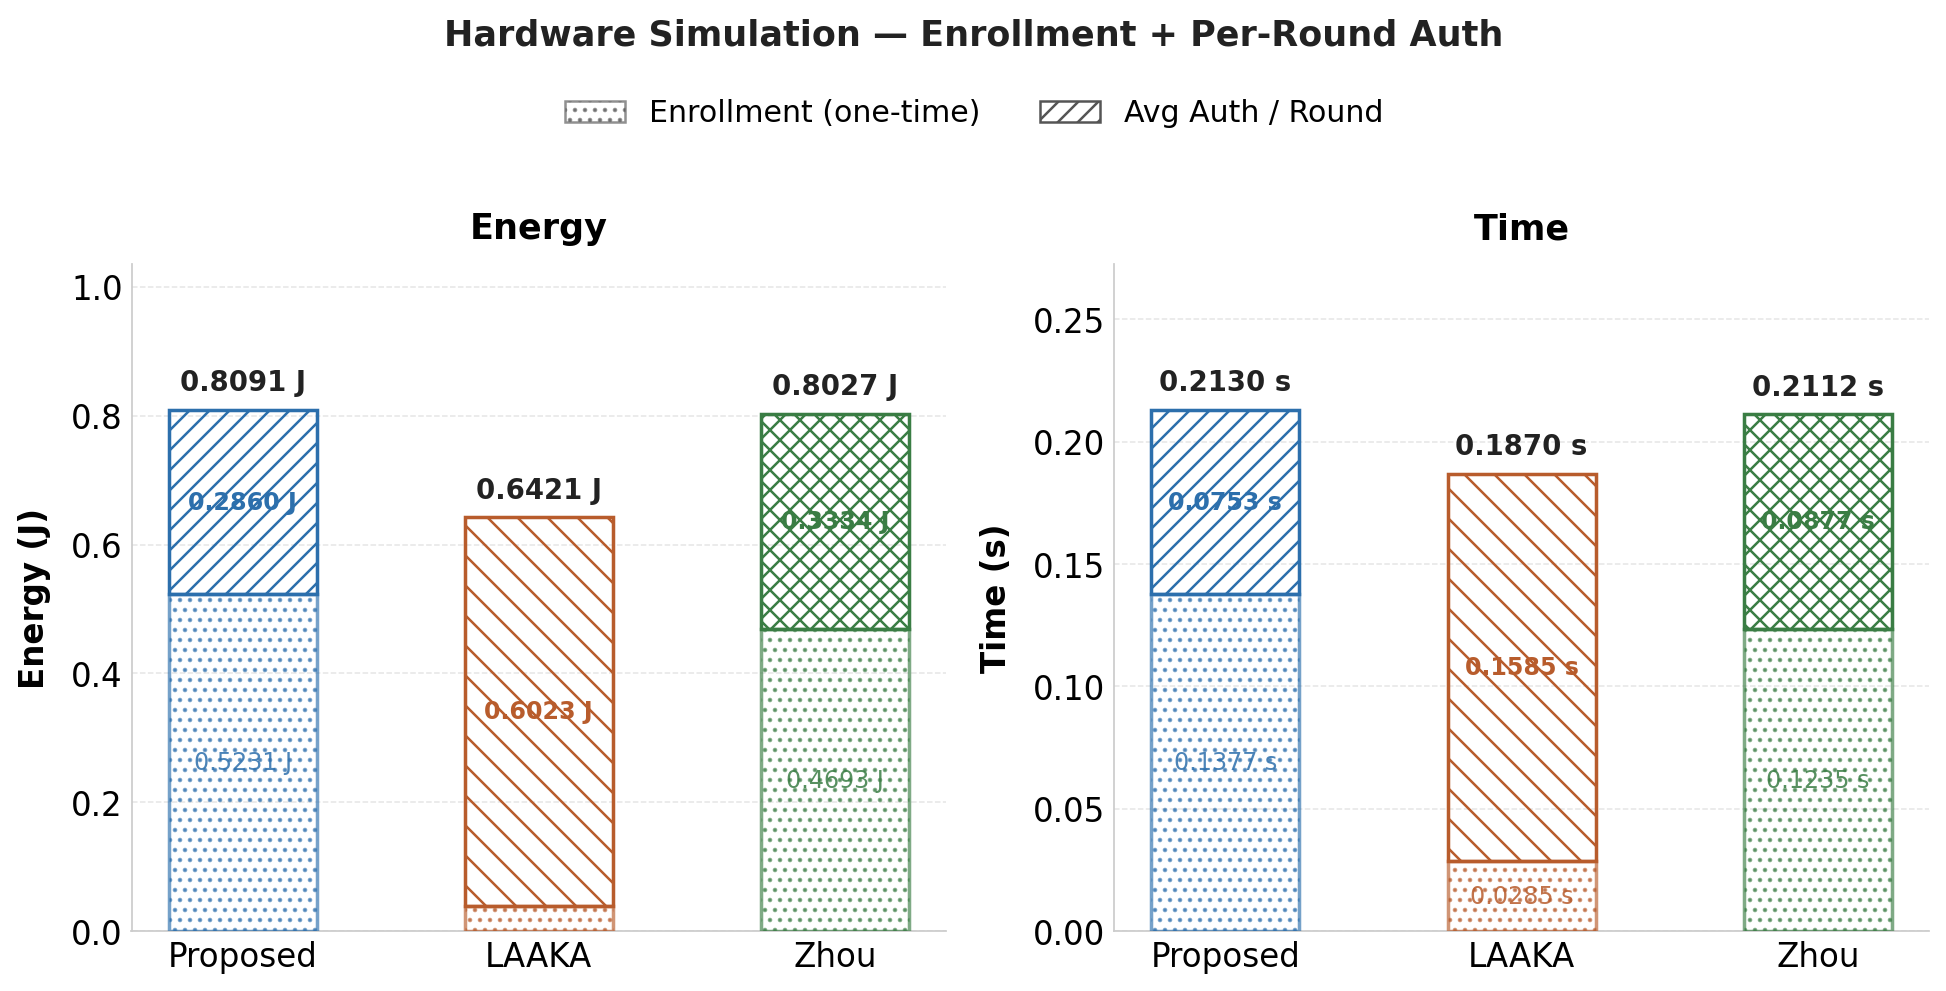
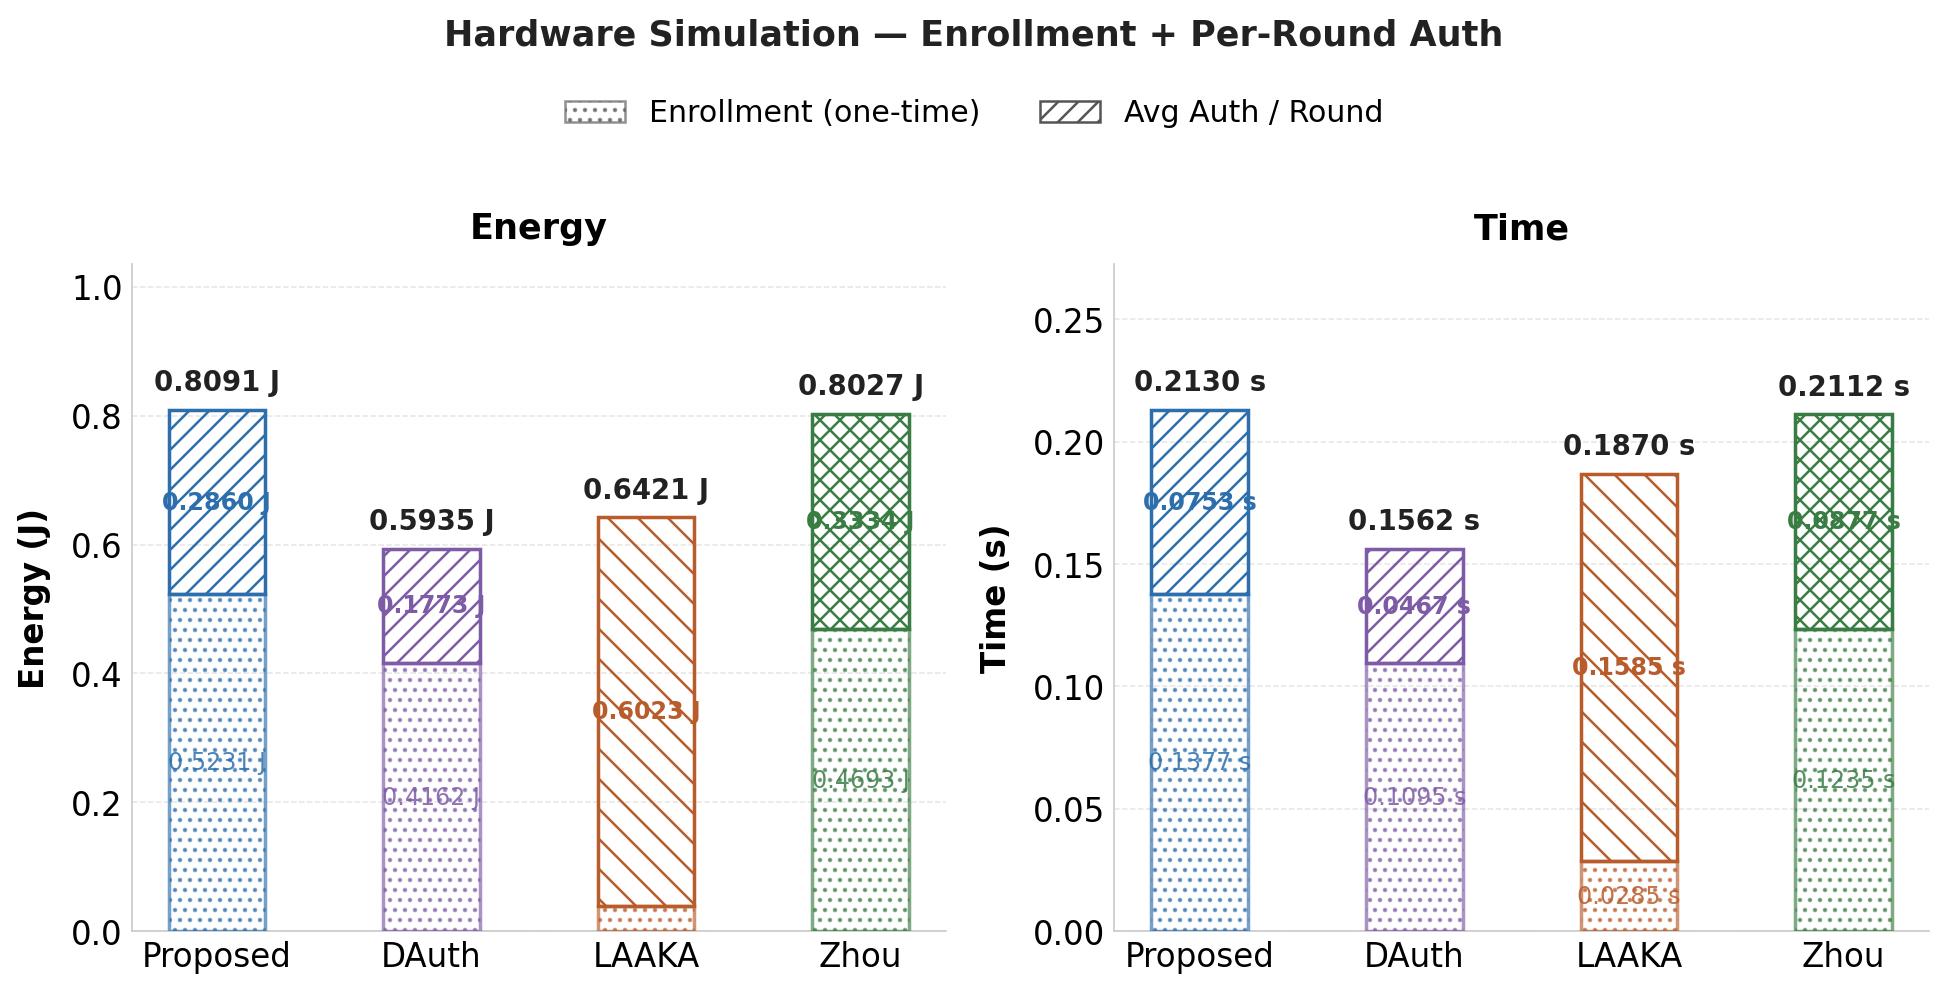
Add DAuth hardware results and update hw comparison charts
Run DAuth simulation on RPi 4B (Apex=device, Pi=AS, Laptop=GW) with
1 warm-up round to eliminate TCP cold-start bias. Auth+KeyEx 3-round
avg: 0.177 J/round, 0.047 s/round (avg of 2 runs). Enrollment: 0.416 J.

- Hardware/DAuth/device.py: add NUM_WARMUP=1 warm-up round (discarded)
- Hardware/plot_hw_comparison.py: add DAuth as 4th bar (#7E5BA6, ...)
- Hardware/plot_hw_with_enrollment.py: add DAuth to stacked bar chart
- Hardware/Charts/hw_total_comparison.png: regenerated (4 schemes)
- Hardware/Charts/hw_enrollment_comparison.png: regenerated (4 schemes)
- CLAUDE.md: update hardware chart status note

Changed region(s): [[0.0617, 0.3633, 0.4625, 0.999], [0.5858, 0.3633, 0.8633, 0.999], [0.8941, 0.3633, 0.9866, 0.999]]

diff --git a/Hardware/plot_hw_with_enrollment.py b/Hardware/plot_hw_with_enrollment.py
@@ -18,23 +18,26 @@ OUT_FILE = os.path.join(OUT_DIR, "hw_enrollment_comparison.png")
 os.makedirs(OUT_DIR, exist_ok=True)
 
 # ── Measured values (RPi 4B, 3800 mW, wall_time × 3.8 W) ──────────────────────
-SCHEMES = ["Proposed", "LAAKA", "Zhou"]
+SCHEMES = ["Proposed", "DAuth", "LAAKA", "Zhou"]
 
-ENROLL_ENERGY_J = {"Proposed": 0.5231, "LAAKA": 0.0398, "Zhou": 0.4693}
-ENROLL_TIME_S   = {"Proposed": 0.1377, "LAAKA": 0.0285, "Zhou": 0.1235}
+# DAuth enrollment: avg of 2 RPi 4B runs (0.4576 J + 0.3748 J) / 2
+ENROLL_ENERGY_J = {"Proposed": 0.5231, "DAuth": 0.4162, "LAAKA": 0.0398, "Zhou": 0.4693}
+ENROLL_TIME_S   = {"Proposed": 0.1377, "DAuth": 0.1095, "LAAKA": 0.0285, "Zhou": 0.1235}
 
 # Per-round avg = (3-round sum) / 3, enrollment excluded
-AUTH_ENERGY_J   = {"Proposed": 0.2860, "LAAKA": 0.6023, "Zhou": 0.3334}
-AUTH_TIME_S     = {"Proposed": 0.0753, "LAAKA": 0.1585, "Zhou": 0.0877}
+# DAuth auth: avg of 2 RPi 4B runs (0.5211 J + 0.5426 J) / 2 / 3 rounds
+AUTH_ENERGY_J   = {"Proposed": 0.2860, "DAuth": 0.1773, "LAAKA": 0.6023, "Zhou": 0.3334}
+AUTH_TIME_S     = {"Proposed": 0.0753, "DAuth": 0.0467, "LAAKA": 0.1585, "Zhou": 0.0877}
 
 # ── Style ──────────────────────────────────────────────────────────────────────
 COLORS = {
     "Proposed": "#2C6FAC",
+    "DAuth":    "#7E5BA6",
     "LAAKA":    "#B85C2C",
     "Zhou":     "#3A7D44",
 }
 HATCH_ENROLL = "..."
-HATCH_AUTH   = {"Proposed": "///", "LAAKA": "\\\\", "Zhou": "xxx"}
+HATCH_AUTH   = {"Proposed": "///", "DAuth": "///", "LAAKA": "\\\\", "Zhou": "xxx"}
 
 _STYLE = {
     "font.size":         13,
@@ -51,7 +54,7 @@ _STYLE = {
     "grid.linewidth":    0.6,
 }
 
-BAR_W = 0.50
+BAR_W = 0.45
 X     = np.arange(len(SCHEMES))
 
 

diff --git a/Hardware/plot_hw_comparison.py b/Hardware/plot_hw_comparison.py
@@ -26,17 +26,22 @@ os.makedirs(OUT_DIR, exist_ok=True)
 # Proposed : Auth+KeyEx only (per round avg)
 # LAAKA    : Auth+Ack + Data (per round avg)
 # Zhou     : Auth M1->M4 + Data (per round avg)
-SCHEMES = ["Proposed", "LAAKA", "Zhou"]
+SCHEMES = ["Proposed", "DAuth", "LAAKA", "Zhou"]
 
 _NUM_ROUNDS = 3
 
+# Auth+KeyEx only (Enrollment and Data excluded), 3-round sums.
+# DAuth values: average of 2 hardware runs on RPi 4B (Apex=device, Pi=AS, Laptop=GW)
+#   with 1 warm-up round discarded to eliminate TCP cold-start.
 _ENERGY_SUM_J = {
     "Proposed": 0.8580,
+    "DAuth":    0.5319,
     "LAAKA":    1.8069,
     "Zhou":     1.0002,
 }
 _TIME_SUM_S = {
     "Proposed": 0.2258,
+    "DAuth":    0.1400,
     "LAAKA":    0.4755,
     "Zhou":     0.2632,
 }
@@ -47,11 +52,13 @@ TIME_S   = {k: round(v / _NUM_ROUNDS, 4) for k, v in _TIME_SUM_S.items()}
 # ── Style (matches existing COOJA simulation charts) ──────────────────────────
 COLORS = {
     "Proposed": "#2C6FAC",
+    "DAuth":    "#7E5BA6",
     "LAAKA":    "#B85C2C",
     "Zhou":     "#3A7D44",
 }
 HATCHES = {
     "Proposed": "///",
+    "DAuth":    "...",
     "LAAKA":    "\\\\",
     "Zhou":     "xxx",
 }
@@ -71,7 +78,7 @@ _STYLE = {
     "grid.linewidth":    0.6,
 }
 
-BAR_W = 0.50
+BAR_W = 0.45
 X     = np.arange(len(SCHEMES))
 
 

diff --git a/Hardware/DAuth/device.py b/Hardware/DAuth/device.py
@@ -16,6 +16,7 @@ STORAGE_FILE = "device_storage.json"
 
 RPI_POWER_MW = 3800   # mW — RPi 4B typical single-core active
 NUM_ROUNDS   = 3
+NUM_WARMUP   = 1    # warm-up rounds before measurement (discarded)
 
 APUF_MASTER_D = b"dev_apuf_master_32b_long_!!!"
 
@@ -230,6 +231,18 @@ if __name__ == '__main__':
     if not do_enrollment():
         raise SystemExit("Enrollment failed — aborting")
     time.sleep(0.3)
+
+    enroll_rec = results[0]   # save before warm-up pollutes list
+
+    print(f"\n[DEV] === Warm-up (1 round, discarded) ===")
+    for _ in range(NUM_WARMUP):
+        ok = do_round(0)
+        if not ok:
+            raise SystemExit("Warm-up failed — aborting")
+        time.sleep(0.3)
+
+    results.clear()
+    results.append(enroll_rec)   # restore enrollment
 
     for r in range(1, NUM_ROUNDS + 1):
         print(f"\n[DEV] === Round {r} ===")

diff --git a/CLAUDE.md b/CLAUDE.md
@@ -95,5 +95,5 @@ Simulation subfigure pairs use `\minipage[b]{0.48\columnwidth}` side-by-side lay
   - **LAAKA** — a **completely separate** scheme: Hala Ali & Irfan Ahmed, "LAAKA: Lightweight Anonymous Authentication and Key Agreement Scheme for Secure Fog-Driven IoT Systems," Computers & Security 140 (2024) 103770 (Elsevier, VCU). **This is NOT das2026comsnets.** Code in `LAAKA/` (as-node.c, device-node.c, gw-node.c) and `Hardware/LAAKA/`; paper PDF at `LAAKA/LAAKA.pdf`.
   - **Zhou** — see next bullet.
 - **Main COOJA evaluation charts now plot FOUR schemes — Proposed, DAuth, LAAKA, Zhou.** DAuth was added as a 4th series (purple `#7E5BA6`, dot hatch `...`) to `fig_sim_total`, `fig_sim_as_energy/cpu`, and `fig_sim_net_energy/cpu`; the desync chart relabels its "Base" bar to "DAuth". DAuth COOJA data comes from `Revised-Anonymity/Src-DAuth/` (3-phase, PID-stripped, fair delta enrollment) via `Scripts/Simulation-Runners/run_dauth_sweep.py`, with results under `Results/COOJA-Simulation/DAuth-Sweep/` (as-/network-variation) and `Results/COOJA-Simulation/10-Seed-Comparison/DAuth/` (total). Result: DAuth sits just below Proposed everywhere (Proposed pays ~8% for PID anonymity), both far below LAAKA/Zhou; enrollment is now fairly comparable (DAuth ~24.6 vs Proposed ~23.2 mJ).
-- The **hardware** evaluation chart (`fig_hw_comparison.png`) still plots **Proposed, LAAKA, Zhou** only (verified from `Hardware/plot_hw_comparison.py`); DAuth is not yet in the hardware comparison.
+- The **hardware** evaluation chart (`fig_hw_comparison.png`) now plots **Proposed, DAuth, LAAKA, Zhou** — DAuth added (purple `#7E5BA6`, dot hatch `...`) to `Hardware/plot_hw_comparison.py` and `Hardware/plot_hw_with_enrollment.py`. DAuth hardware data: 2 RPi 4B runs (Apex=device, Pi=AS, Laptop=GW), 1 warm-up round discarded. Auth+KeyEx 3-round sums: energy=0.532 J / time=0.140 s → **0.177 J/round** and **0.047 s/round**. Enrollment: 0.416 J / 0.110 s (avg of 2 runs). DAuth < Proposed < Zhou < LAAKA in both metrics.
 - **Zhou scheme implemented:** Xin Zhou et al., "Security-Enhanced Lightweight and Anonymity-Preserving User Authentication Scheme for IoT-Based Healthcare," IEEE IoT Journal, Vol. 11, No. 6, 2024. Source code in `Zhou-Scheme/`. **Distinct from** `zhou2021iot` (I. Zhou et al., IEEE Access 2021, IoT survey paper — used only in the Introduction as a general IoT reference).
